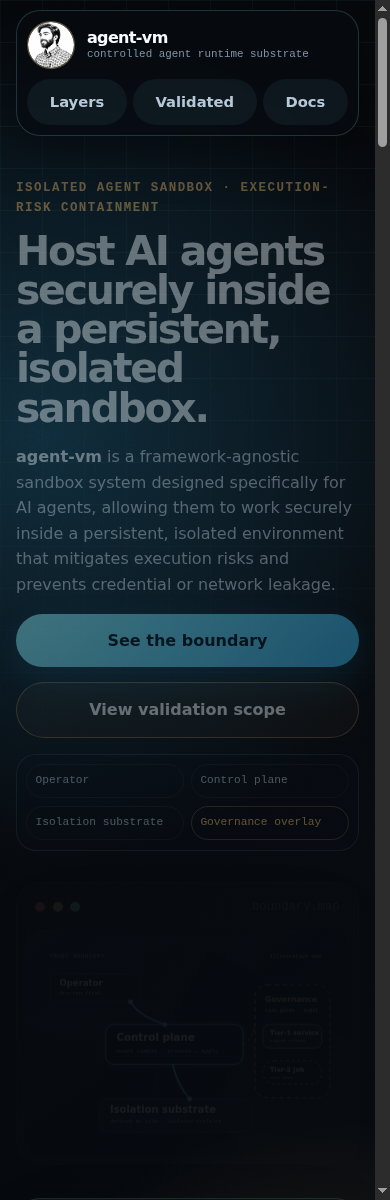
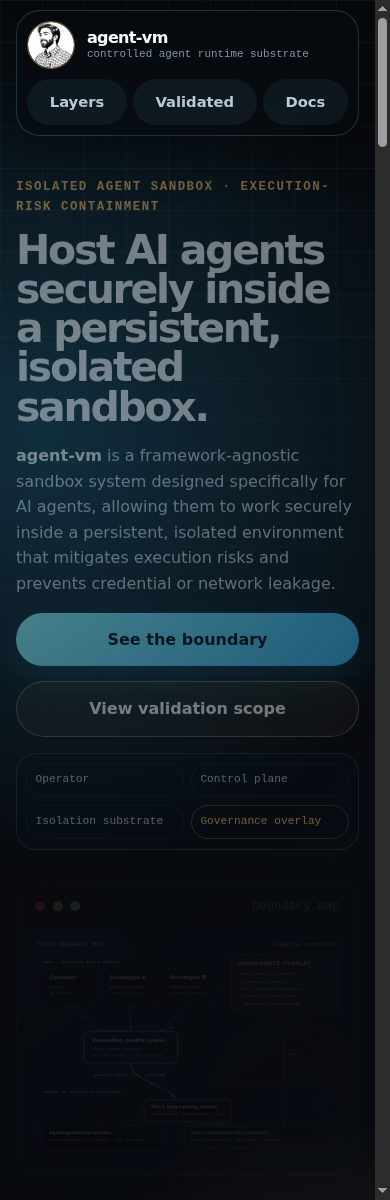
feat(ux): fully replace trust-boundary SVG with complete, rich architectural flow diagram

diff --git a/site/styles.css b/site/styles.css
@@ -223,6 +223,7 @@ main {
 }
 
 .hero {
+  grid-template-columns: minmax(0, 0.8fr) minmax(320px, 1.2fr);
   align-items: center;
   min-height: calc(100svh - 104px);
   padding: clamp(1.6rem, 4.2vw, 4rem) 0 clamp(1.8rem, 4vw, 3rem);